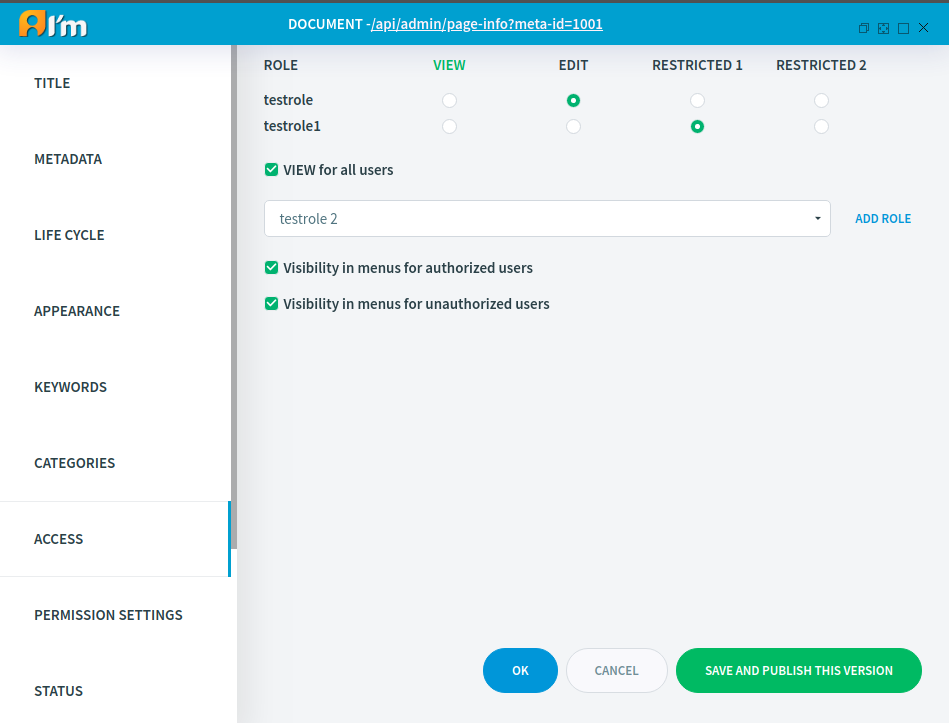
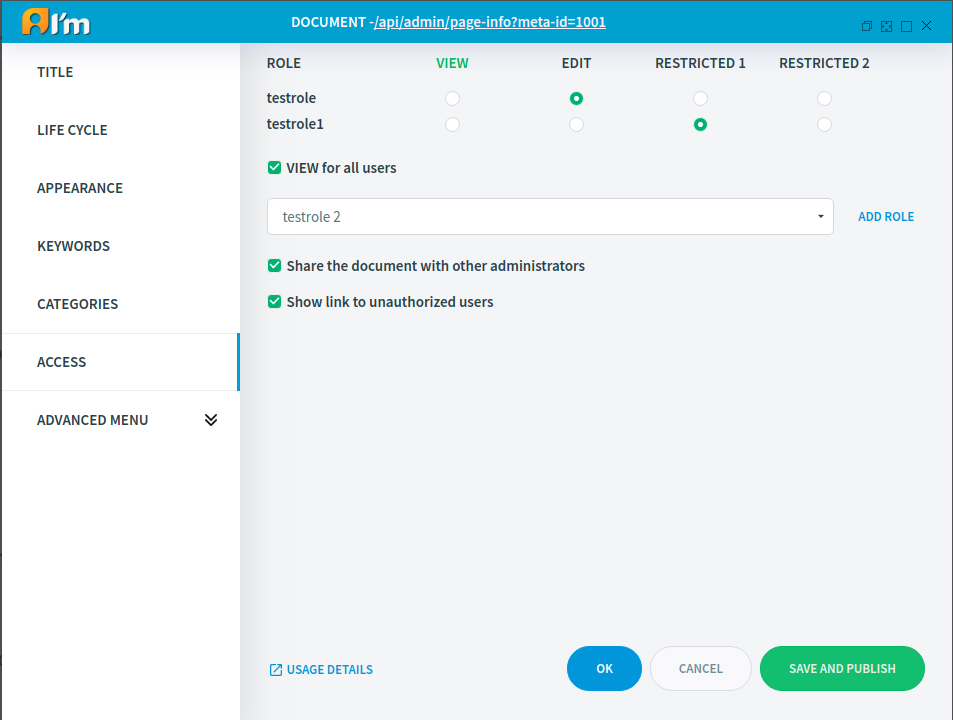
Issue IMCMS-783 Release beta19: - Update docs

diff --git a/docs/user-documentation/editors/menu.rst b/docs/user-documentation/editors/menu.rst
@@ -66,13 +66,11 @@ In order to make a **document visible to a authorized** user in a menu, you have
 
 1. Make sure the document is **published**. You can check it in **State** column.
 2. Enable **VIEW for all users** or give **VIEW** for one of the user's roles.
-3. Enable **Visibility in the menu for authorized users**. You can check it in **Vis** column.
 
 In order to make a **document visible to a unauthorized** user in a menu, you have to:
 
 1. Make sure the document is **published**. You can check it in **State** column.
-2. Enable **VIEW for all users**.
-3. Enable **Visibility in the menu for unauthorized users**. You can check it in **Vis** column.
+2. Enable **VIEW for all users**. Or use **Show link to unauthorized users** to show document to all users, but note that a user who does not have access cannot visit the document.
 
 .. seealso:: Read more about access control :doc:`here </user-documentation/access-control>`.
 
@@ -89,6 +87,10 @@ You can *remove an item* in two ways:
 
 1. Move the mouse cursor over the item and click **X** that appears.
 2. Enable **Multi-remove**, select items and click **Remove**.
+
+.. note:: Admin must have access to a document that he wants to add to the menu.
+    Or this document must have enabled **Share the document with other administrators**.
+    Read more about access control :doc:`here </user-documentation/access-control>`.
 
 -----------------
 Menu Item Sorting
@@ -126,10 +128,7 @@ Manage by dragging
 
 Disable the **Sort by numbers** checkbox under the dropdown list of sort options.
 
-In order to change an item position, you have to:
-
-1. Move the mouse cursor over the item closest to the right side.
-2. When the mouse cursor becomes |move|, hold and drag up or down.
+In order to change an item position, you have to hold the mouse on the document (anywhere, but not |nest|) and move up or down.
 
 *Tree sort* sorting allows to nest items. In order to nest an item, you have to:
 
@@ -137,7 +136,7 @@ In order to change an item position, you have to:
 2. Hold the mouse cursor on |nest| that appears on the left.
 3. Drag an item to another item.
 
-In order to nest an item, you have to:
+In order to pull out an item, you have to:
 
 1. Move the mouse cursor over the item.
 2. Hold the mouse cursor on |nest| that appears on the left.

diff --git a/docs/user-documentation/access-control.rst b/docs/user-documentation/access-control.rst
@@ -61,8 +61,8 @@ Location *Page Info* -> *Access* and *Permission Settings* tabs
 
 * **VIEW for all users** - **VIEW** for all users - all users can see page the document, the document when searching and in the menu.
 
-* **Visibility in the menu for authorized users** - visibility of this document in the menu for authorized users (menu admins see all items).
-* **Visibility in the menu for unauthorized users** - visibility of this document in the menu for unauthorized users.
+* **Share the document with other administrators** - allow other administrators to add the document to the menu even if they don't have access to the document.
+* **Show link to unauthorized users** - show the document in the menu even if the user doesn't have access to the document.
 
 ------------------
 
@@ -81,8 +81,9 @@ In order to make a **document visible** to a specific user **when searching**, y
 1. Enable **VIEW for all users** or give **VIEW** for one of the user's roles.
 2. **Disable** *Disable search*.
 
-In order to make a **document visible** to a specific user **in a menu**, you have to:
+In order to make a **document visible in a menu**, you have to:
 
 1. Make sure the document is **published**.
-2. Enable **VIEW for all users** or give **VIEW** for one of the user's roles.
-3. Enable **Visibility in the menu for authorized users**.
+2. Give users access to the document.
+	* Enable **VIEW for all users** - show document to all users. Or Enable **Show link to unauthorized users** - show document to all users, but note that a user who does not have access cannot visit the document.
+	* Give **VIEW** for one of the user's roles - show document to users who have the specified role.

diff --git a/docs/user-documentation/admin-panel.rst b/docs/user-documentation/admin-panel.rst
@@ -30,7 +30,7 @@ Panel Features
 
 .. |documentsIcon| image:: admin-panel/_static/documents.png
 
-.. |adminManagerIcon| image:: admin-panel/_static/admin.png
+.. |adminManagerIcon| image:: admin-panel/_static/system.png
 
 .. |logoutIcon| image:: admin-panel/_static/logout.png
 
@@ -47,7 +47,7 @@ Panel Features
 +--------------------+----------------------------------------------------------------------------------------------------------------+
 + |pageInfoIcon|     + Page Info - open the :doc:`Page Info</user-documentation/document-management/page-info/base>`.                 +
 +--------------------+----------------------------------------------------------------------------------------------------------------+
-+ |siteSpecific|     + Site Specific (optional) - open additional functionality written by the developer.                             +
++ |siteSpecific|     + Admin (optional) - open additional functionality written by the developer.                                     +
 +--------------------+----------------------------------------------------------------------------------------------------------------+
 + |documentsIcon|    + Document Manager - open the :doc:`Document Manager</user-documentation/document-management/document-manager>`. +
 +--------------------+----------------------------------------------------------------------------------------------------------------+

diff --git a/docs/user-documentation/document-management/page-info/base.rst b/docs/user-documentation/document-management/page-info/base.rst
@@ -99,9 +99,9 @@ To do this, add a role and enable the required permission type.
 
 **VIEW for all users** - **VIEW** for all users - all users can see page the document, the document when searching and in the menu.
 
-**Visibility in the menu for authorized users** - visibility of this document in the menu for authorized users (menu admins see all items).
+**Share the document with other administrators** - allow other administrators to add the document to the menu even if they don't have access to the document.
 
-**Visibility in the menu for unauthorized users** - visibility of this document in the menu for unauthorized users.
+**Show link to unauthorized users** - show the document in the menu even if the user doesn't have access to the document.
 
 .. seealso:: Read more about access control :doc:`here </user-documentation/access-control>`
 

diff --git a/docs/user-documentation/editors/image/image-editor.rst b/docs/user-documentation/editors/image/image-editor.rst
@@ -151,11 +151,15 @@ To apply the previous image, click on it in the list. To cancel - click **Cancel
 
 To close the history table click **Hide history** button.
 
+.. note:: Max number of records in the history can be configured by developers.
+
 ----------------
 Image Attributes
 ----------------
 
-**Alt text** - the text to be displayed instead of the image if the upload fails. There is an example below
+**Alt text** - the text to be displayed instead of the image if the upload fails. There is an example below.
+
+.. note:: Whether this field is required can be configured by developers.
 
 .. image:: _static/editor/alt-text-example.png
 

diff --git a/docs/developer-documentation/cache.rst b/docs/developer-documentation/cache.rst
@@ -81,7 +81,7 @@ API
     Check out the API :doc:`here </developer-documentation/api/documentsCache>`.
 
 .. seealso:: You can manage all types of cache using ``DefaultTemporalDataService`` class.
-    Check out the API :doc:`here </developer-documentation/api/defaultTemporalDataService>`.
+    Check out the API :doc:`here </developer-documentation/api/temporalDataService>`.
 
 How you can get ``EhCacheCacheManager``:
 

diff --git a/docs/developer-documentation/api/accessService.rst b/docs/developer-documentation/api/accessService.rst
@@ -18,6 +18,14 @@ Methods
 
 .. code-block:: java
 
+    boolean hasUserViewAccess(UserDomainObject user, Integer documentId);
+
+check the user's access to view the document.
+
+------------------
+
+.. code-block:: java
+
     boolean hasUserPublishAccess(UserDomainObject user, int docId);
 
 check the user's access to the publication of the document.

diff --git a/docs/user-documentation/editors/image/image-library.rst b/docs/user-documentation/editors/image/image-library.rst
@@ -30,6 +30,9 @@ You can open the library in two ways:
 
 .. image:: _static/library/library.png
 
+.. warning:: If you face some problems with the *Image Library*, you can try to clean *Other* cache.
+    Read how to clean cache :doc:`here </user-documentation/admin-settings/index-cache>`.
+
 ------------
 Choose Image
 ------------

diff --git a/docs/user-documentation/editors/text.rst b/docs/user-documentation/editors/text.rst
@@ -135,3 +135,5 @@ In order to *revert back to the previous version* of the text in this editor,
 you have to find and select the required version on the left and click **Write to text field**.
 
 **View Source** - view the source code.
+
+.. note:: Max number of records in the history can be configured by developers.
